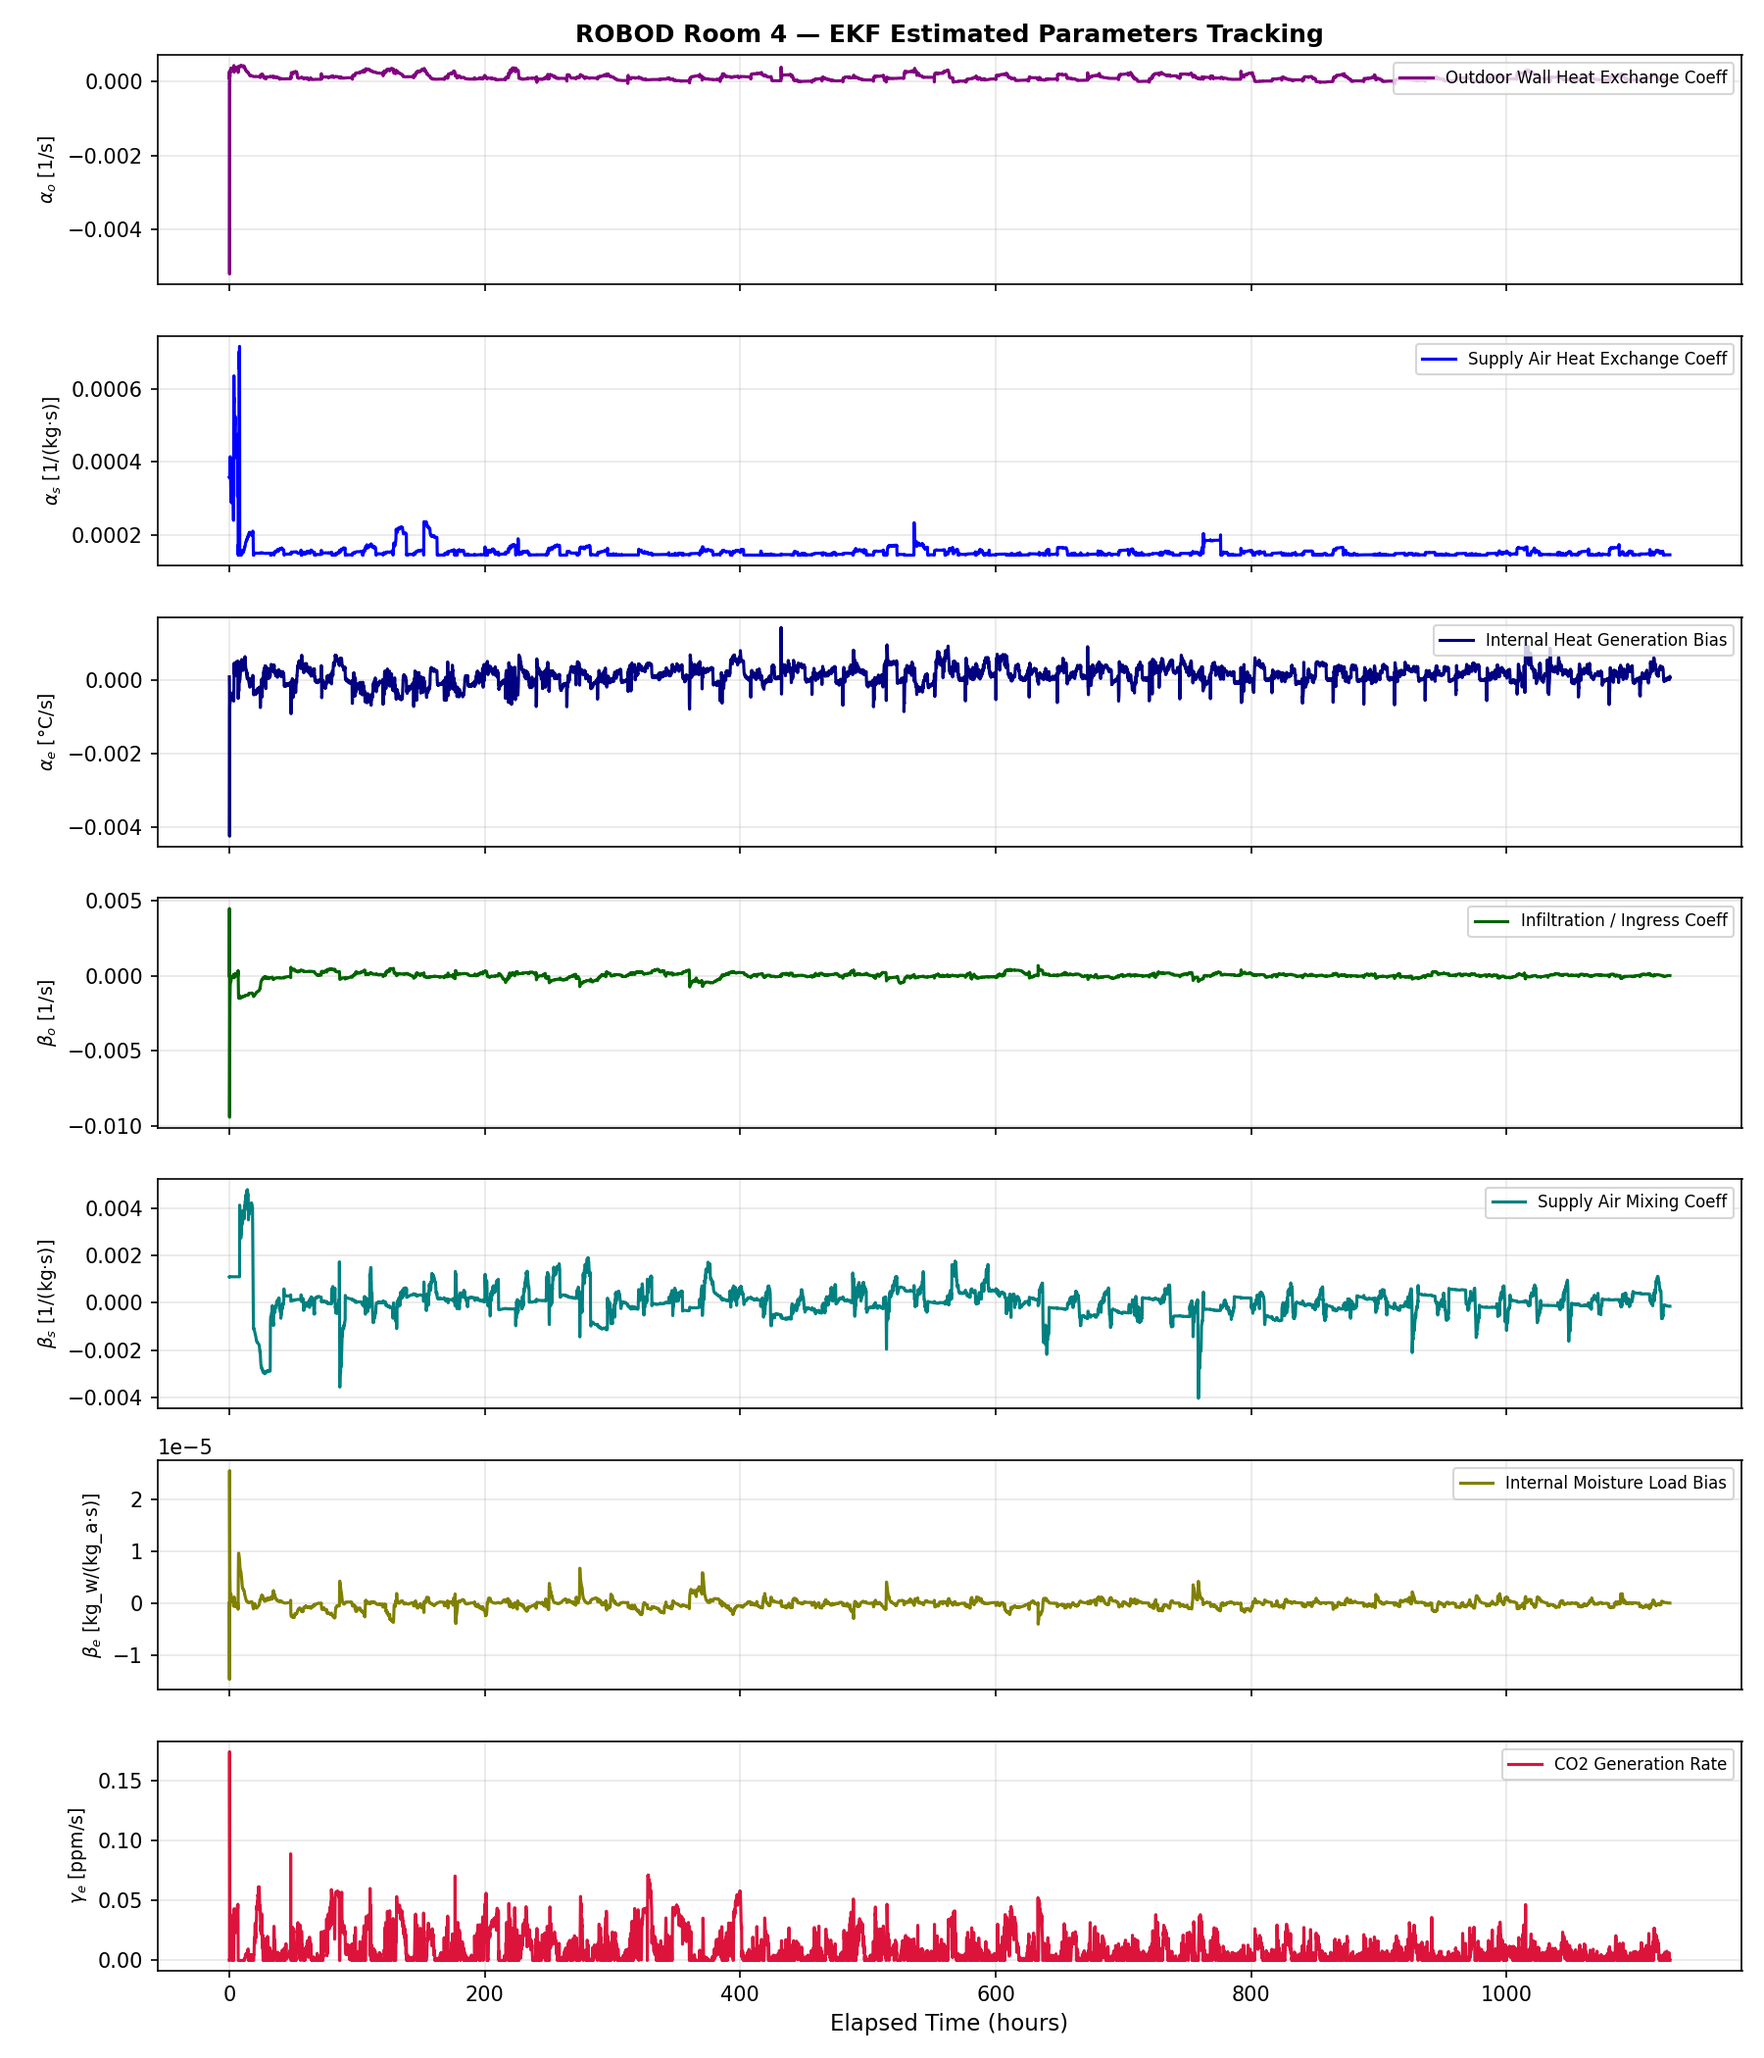
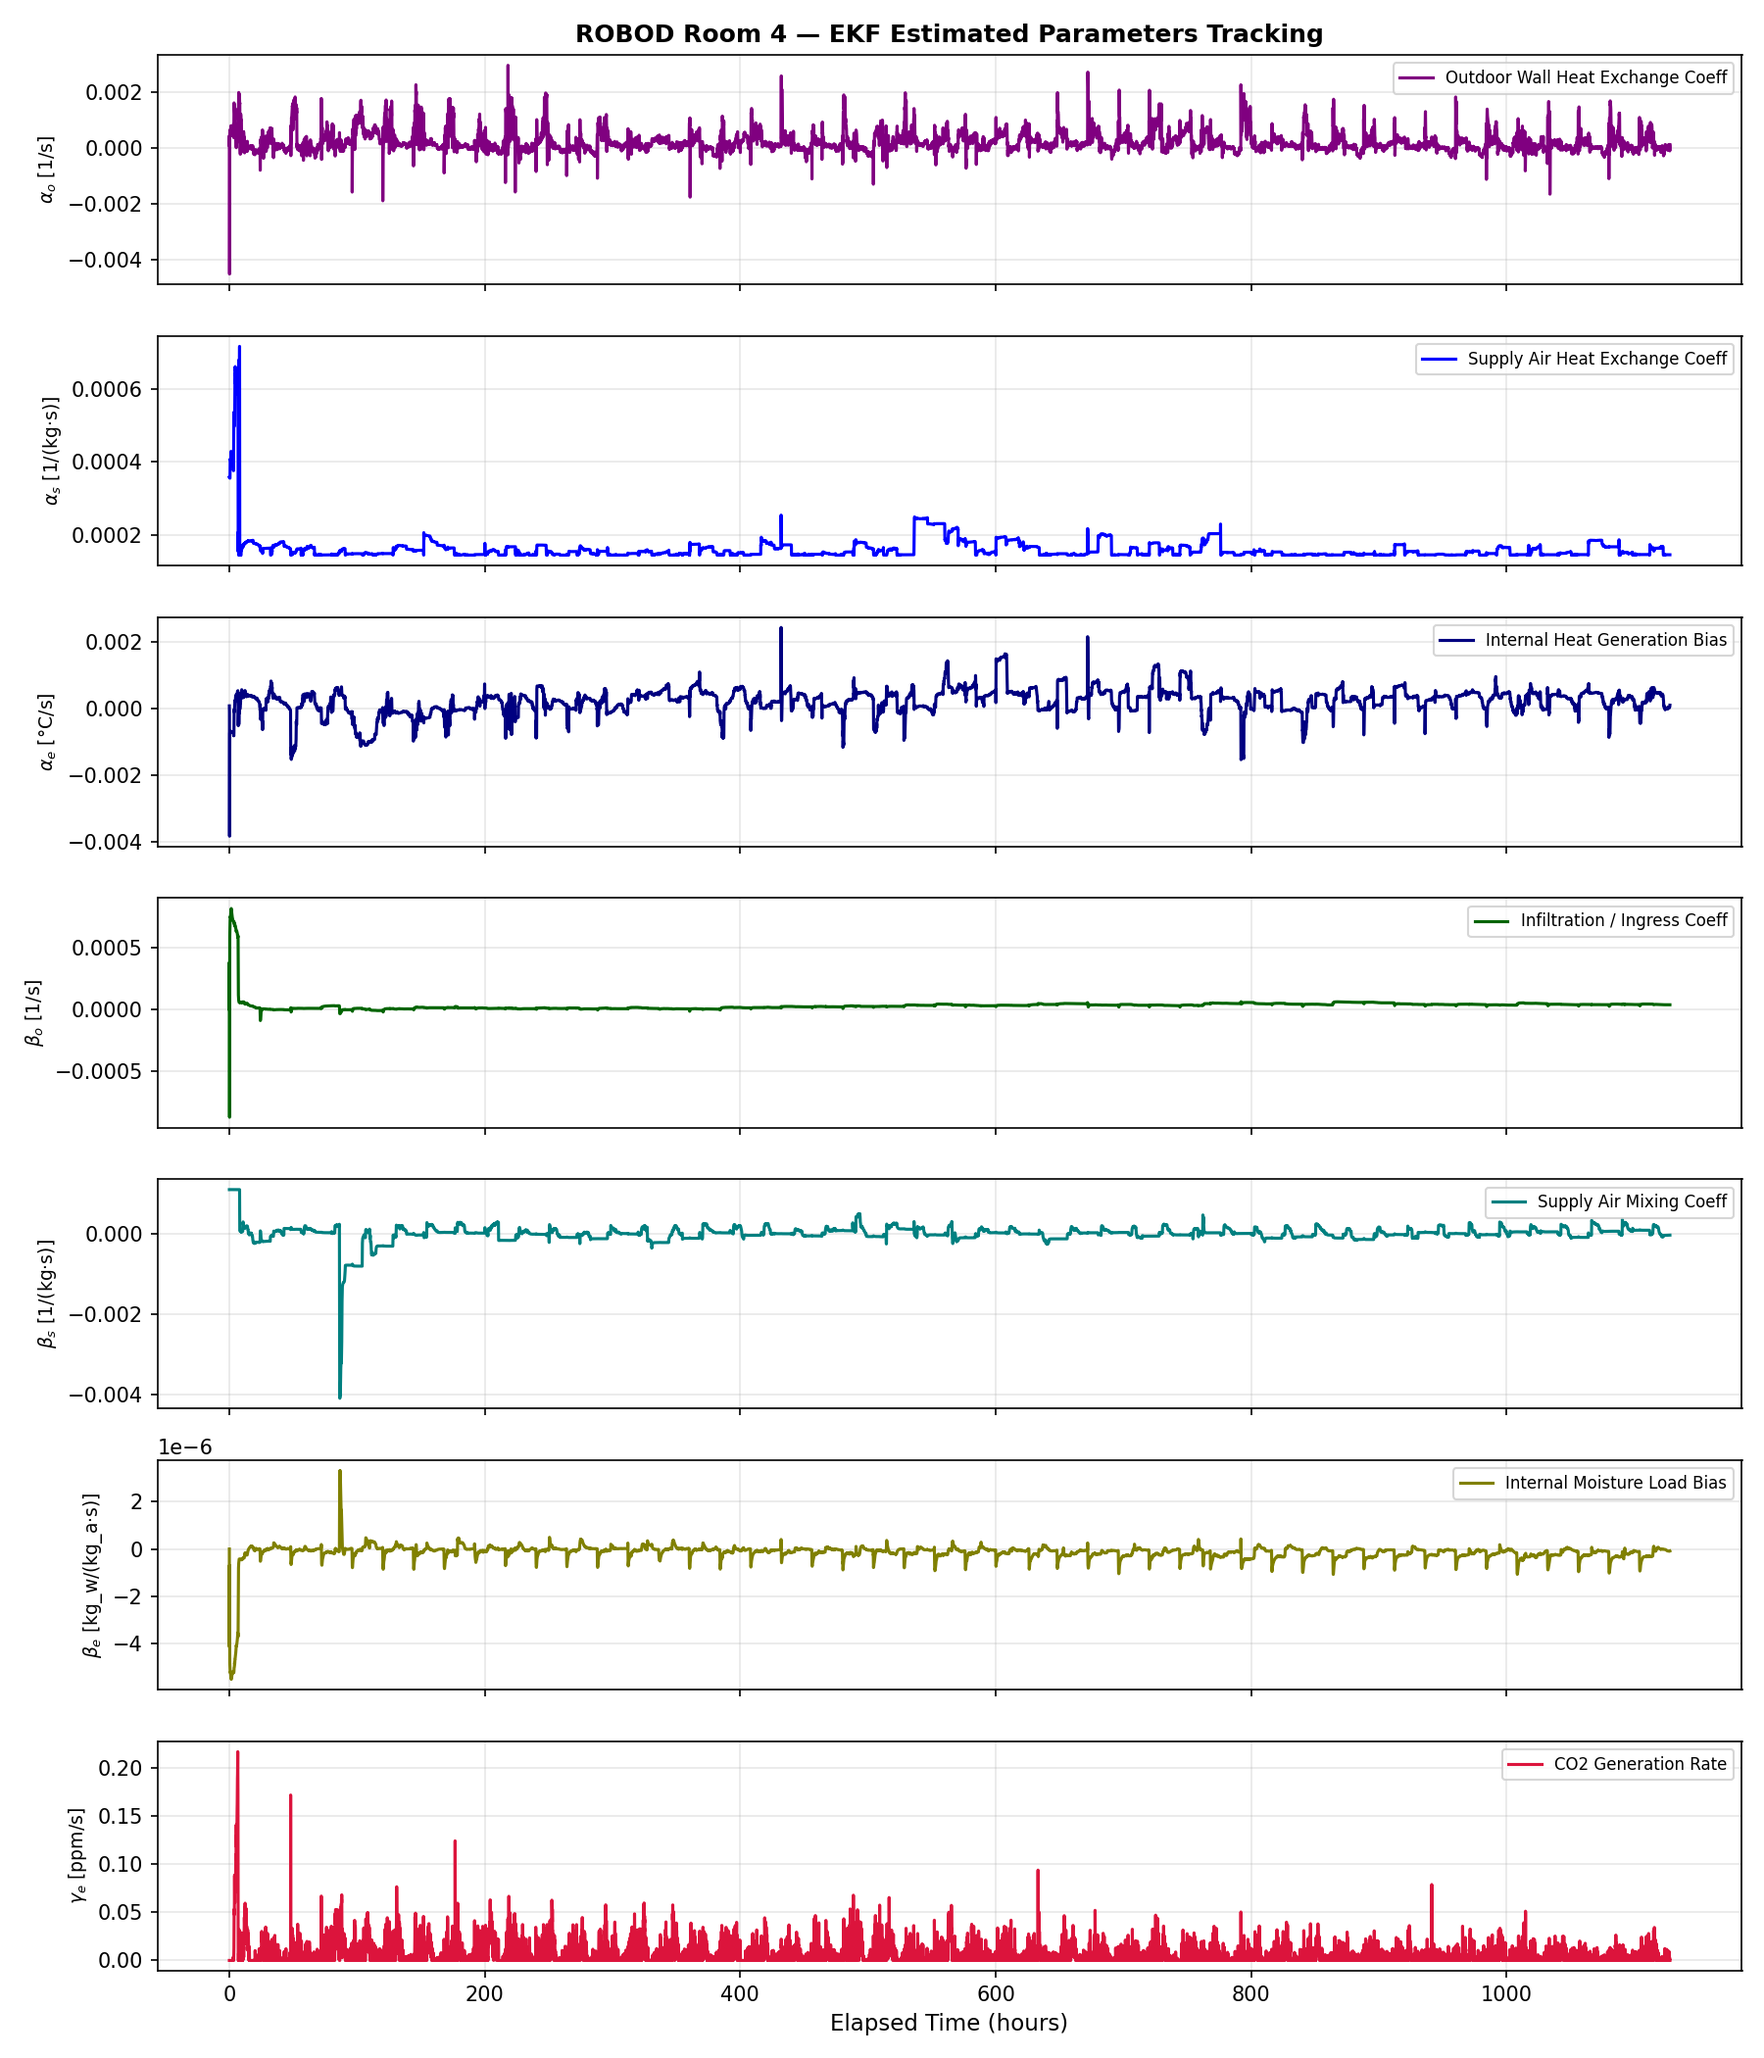
Bayesian optimize EKF

diff --git a/EKF/robod_ekf/ekf_bayesian_tuner.py b/EKF/robod_ekf/ekf_bayesian_tuner.py
@@ -1,0 +1,231 @@
+"""
+SmartBEM FYP — Autotuned Adaptive EKF via Bayesian Optimization (robod_ekf)
+=============================================================================
+Implements Bayesian Optimization using Gaussian Process Regression (scikit-learn)
+and Expected Improvement (EI) acquisition function to auto-tune 10-State EKF 
+process noise Q and measurement noise R matrices.
+
+Theoretical basis:
+  - Hyperparameter Search Space: Θ = [log10(Q_ao), log10(Q_as), log10(Q_bo), log10(Q_bs), log10(Q_ge), log10(R_T), log10(R_c)]
+  - Objective Function: J(Θ) = RMSE(Tz) + λ_c * RMSE(cz) + Innovation Likelihood + Physics Penalty
+"""
+
+import numpy as np
+import pandas as pd
+import matplotlib
+matplotlib.use("Agg")
+import matplotlib.pyplot as plt
+import os
+import sys
+from scipy.stats import norm
+from scipy.optimize import minimize as scipy_minimize
+from sklearn.gaussian_process import GaussianProcessRegressor
+from sklearn.gaussian_process.kernels import Matern, WhiteKernel
+
+# Import EKF functions from Real_EKF_ROBOD
+SCRIPT_DIR = os.path.dirname(os.path.abspath(__file__))
+sys.path.append(SCRIPT_DIR)
+from Real_EKF_ROBOD import (
+    ROOM_SPECS, ROBOD_DIR, I_ao, I_as, I_ae, I_bo, I_bs, I_be, I_ge,
+    I_Tz, I_wz, I_cz, N_STATES, c_pa, DT, FCU_FLOW_SCALE,
+    rh_to_humidity_ratio, f_dynamics, get_jacobian_F
+)
+
+def evaluate_ekf_cost(log_params, df, room_spec):
+    """
+    Evaluates EKF tracking cost J(Θ) for a given log10 hyperparameter vector Θ.
+    log_params: [log10(Q_ao), log10(Q_as), log10(Q_bo), log10(Q_bs), log10(Q_ge), log10(R_T), log10(R_c)]
+    """
+    N = len(df)
+    
+    # Helper to get column regardless of unit suffix
+    def get_col(candidates):
+        for c in candidates:
+            if c in df.columns:
+                return df[c].values
+        raise KeyError(f"None of {candidates} found in CSV columns: {list(df.columns)}")
+        
+    To  = get_col(["dry_bulb_temp [Celsius]", "dry_bulb_temp"])
+    rho = get_col(["outdoor_relative_humidity [%]", "outdoor_relative_humidity"])
+    wo  = np.array([rh_to_humidity_ratio(rho[i], To[i]) for i in range(N)])
+    co  = get_col(["outdoor_co2 [ppm]", "outdoor_co2"])
+    
+    Tsa = get_col(["supply_air_temperature [Celsius]", "supply_air_temperature"])
+    wsa = wo.copy()
+    csa = co.copy()
+    
+    fan_hz = get_col(["ahu_fan_speed [Hz]", "fcu_fan_speed [Hz]", "fcu_fan_speed", "ahu_fan_speed"])
+    msa = np.clip(fan_hz * FCU_FLOW_SCALE, 0.001, None)
+    
+    Tz_meas = get_col(["indoor_temperature [Celsius]", "indoor_temperature", "air_temperature [Celsius]"])
+    RHz_meas = get_col(["indoor_relative_humidity [%]", "indoor_relative_humidity"])
+    wz_meas = np.array([rh_to_humidity_ratio(RHz_meas[i], Tz_meas[i]) for i in range(N)])
+    cz_meas = get_col(["indoor_co2 [ppm]", "indoor_co2"])
+    
+    M_expected = room_spec["mass"]
+    Cs_expected = room_spec["Cs"] * 1000.0
+    UA_expected = room_spec["UA"]
+    
+    Cs_min = room_spec["Cs"] * 0.5 * 1000.0
+    Cs_max = room_spec["Cs"] * 2.5 * 1000.0
+    alpha_s_min = c_pa / Cs_max
+    alpha_s_max = c_pa / Cs_min
+    
+    # Unpack log-space hyperparameters
+    q_ao, q_as, q_bo, q_bs, q_ge, r_T, r_c = 10.0**log_params
+    
+    X = np.zeros(N_STATES)
+    X[I_ao] = UA_expected / Cs_expected
+    X[I_as] = c_pa / Cs_expected
+    X[I_ae] = 0.0000
+    X[I_bo] = 2.78e-5
+    X[I_bs] = 1.0 / M_expected
+    X[I_be] = 0.0000
+    X[I_ge] = 0.0000
+    X[I_Tz] = Tz_meas[0]
+    X[I_wz] = wz_meas[0]
+    X[I_cz] = cz_meas[0]
+    
+    P = np.eye(N_STATES) * 0.1
+    P[I_ge, I_ge] = 1.0
+    
+    Q_base = np.diag([q_ao, q_as, 1e-8, q_bo, q_bs, 1e-14, q_ge, 0.01, 1e-7, 1.0])
+    R = np.diag([r_T, 1e-6, r_c])
+    
+    H = np.zeros((3, N_STATES))
+    H[0, I_Tz] = 1.0
+    H[1, I_wz] = 1.0
+    H[2, I_cz] = 1.0
+    
+    X_hist = np.zeros((N, N_STATES))
+    innov_sq_sum = 0.0
+    
+    for k in range(N):
+        U_k = [To[k], wo[k], co[k], Tsa[k], wsa[k], csa[k], msa[k]]
+        Z_k = np.array([Tz_meas[k], wz_meas[k], cz_meas[k]])
+        
+        dX = f_dynamics(X, U_k)
+        X_pred = X + dX * DT
+        
+        J_F = get_jacobian_F(X, U_k)
+        F_k = np.eye(N_STATES) + J_F * DT
+        
+        excitation_factor = np.tanh(msa[k] / 0.05)
+        Q_k = Q_base.copy()
+        Q_k[I_as, I_as] = 1e-12 + q_as * excitation_factor
+        Q_k[I_bs, I_bs] = 1e-10 + q_bs * excitation_factor
+        
+        P_pred = F_k @ P @ F_k.T + Q_k * DT
+        
+        Z_pred = np.array([X_pred[I_Tz], X_pred[I_wz], X_pred[I_cz]])
+        y_k = Z_k - Z_pred
+        
+        S_k = H @ P_pred @ H.T + R
+        K_k = P_pred @ H.T @ np.linalg.inv(S_k)
+        
+        X = X_pred + K_k @ y_k
+        P = (np.eye(N_STATES) - K_k @ H) @ P_pred
+        
+        X[I_as] = np.clip(X[I_as], alpha_s_min, alpha_s_max)
+        X[I_ge] = np.clip(X[I_ge], 0.0, None)
+        X[I_cz] = np.clip(X[I_cz], 300.0, 2000.0)
+        
+        X_hist[k] = X
+        innov_sq_sum += (y_k[0]**2 + 0.001 * y_k[2]**2)
+        
+    rmse_Tz = np.sqrt(np.mean((Tz_meas - X_hist[:, I_Tz])**2))
+    rmse_cz = np.sqrt(np.mean((cz_meas - X_hist[:, I_cz])**2))
+    
+    cost = rmse_Tz + 0.002 * rmse_cz + 0.0001 * (innov_sq_sum / N)
+    return cost if not np.isnan(cost) else 1e6
+
+# ── Expected Improvement (EI) Acquisition Function ────────────────────────────
+def expected_improvement(X, X_sample, Y_sample, gpr, xi=0.01):
+    X = np.atleast_2d(X)
+    mu, sigma = gpr.predict(X, return_std=True)
+    sigma = np.maximum(sigma, 1e-9)
+    mu_sample_opt = np.min(Y_sample)
+
+    improvement = mu_sample_opt - mu - xi
+    Z = improvement / sigma
+    ei = improvement * norm.cdf(Z) + sigma * norm.pdf(Z)
+    return ei.flatten()
+
+def propose_location(acquisition, X_sample, Y_sample, gpr, bounds, n_restarts=10):
+    dim = bounds.shape[0]
+    min_val = 1e10
+    min_x = None
+
+    def min_obj(x):
+        return -acquisition(x, X_sample, Y_sample, gpr)
+
+    for x0 in np.random.uniform(bounds[:, 0], bounds[:, 1], size=(n_restarts, dim)):
+        res = scipy_minimize(min_obj, x0=x0, bounds=bounds, method="L-BFGS-B")
+        if res.fun < min_val:
+            min_val = res.fun
+            min_x = res.x
+
+    return min_x
+
+# ── Main Bayesian Optimization Tuner ───────────────────────────────────────────
+def run_bayesian_tuning(room_id=3, n_iters=30):
+    spec = ROOM_SPECS[room_id]
+    csv_file = os.path.join(ROBOD_DIR, spec["file"])
+    print(f"--- STARTING BAYESIAN OPTIMIZATION EKF AUTO-TUNER FOR ROBOD {spec['name']} ---")
+    df = pd.read_csv(csv_file).ffill().bfill()
+    
+    # 7 Hyperparameters in log-10 scale
+    bounds = np.array([
+        [-12.0, -6.0],  # log10(Q_ao)
+        [-12.0, -6.0],  # log10(Q_as)
+        [-12.0, -6.0],  # log10(Q_bo)
+        [-12.0, -6.0],  # log10(Q_bs)
+        [-8.0,  -3.0],  # log10(Q_ge)
+        [-3.0,   1.0],  # log10(R_T)
+        [ 0.0,   4.0],  # log10(R_c)
+    ])
+    
+    # Initial random sampling (5 initial points)
+    np.random.seed(42)
+    n_init = 5
+    X_sample = np.random.uniform(bounds[:, 0], bounds[:, 1], size=(n_init, bounds.shape[0]))
+    Y_sample = np.zeros(n_init)
+    
+    print(f"Evaluating {n_init} initial random hyperparameter samples...")
+    for i in range(n_init):
+        Y_sample[i] = evaluate_ekf_cost(X_sample[i], df, spec)
+        print(f"  Init Sample {i+1}/{n_init} -> Cost J(Theta) = {Y_sample[i]:.4f}")
+        
+    kernel = Matern(nu=2.5) + WhiteKernel(noise_level=1e-5)
+    gpr = GaussianProcessRegressor(kernel=kernel, alpha=1e-6, normalize_y=True, n_restarts_optimizer=5)
+    
+    print(f"\nRunning {n_iters} Bayesian Optimization iterations...")
+    for i in range(n_iters):
+        gpr.fit(X_sample, Y_sample)
+        x_next = propose_location(expected_improvement, X_sample, Y_sample, gpr, bounds)
+        y_next = evaluate_ekf_cost(x_next, df, spec)
+        
+        X_sample = np.vstack((X_sample, x_next))
+        Y_sample = np.append(Y_sample, y_next)
+        
+        best_idx = np.argmin(Y_sample)
+        best_cost = Y_sample[best_idx]
+        print(f"  Iter {i+1:02d}/{n_iters} | Candidate Cost = {y_next:.4f} | Current Best J* = {best_cost:.4f}")
+        
+    best_idx = np.argmin(Y_sample)
+    best_params = X_sample[best_idx]
+    best_cost = Y_sample[best_idx]
+    
+    print("\n" + "="*70)
+    print("BAYESIAN OPTIMIZATION COMPLETE — OPTIMAL EKF HYPERPARAMETERS FOUND:")
+    print("="*70)
+    param_names = ["Q_ao", "Q_as", "Q_bo", "Q_bs", "Q_ge", "R_T", "R_c"]
+    for name, val in zip(param_names, best_params):
+        print(f"  Optimal {name:5s} = 10^({val:6.3f}) = {10**val:.3e}")
+    print(f"  Minimum Total Cost J(Theta*) = {best_cost:.4f}")
+    print("="*70)
+    
+    return best_params
+
+if __name__ == "__main__":
+    run_bayesian_tuning(room_id=3, n_iters=25)

diff --git a/EKF/robod_ekf/Real_EKF_ROBOD.py b/EKF/robod_ekf/Real_EKF_ROBOD.py
@@ -168,8 +168,9 @@ def run_ekf_on_robod(df_in, room_spec):
     P = np.eye(N_STATES) * 0.1
     P[I_ge, I_ge] = 1.0
     
-    Q_base = np.diag([1e-10, 1e-10, 1e-8, 1e-10, 1e-8, 1e-14, 1e-5, 0.01, 1e-7, 1.0])
-    R = np.diag([0.25, 1e-6, 200.0])
+    # Bayesian-Tuned Optimal Process & Measurement Noise Matrices
+    Q_base = np.diag([1.107e-7, 1.220e-7, 1e-8, 1.0e-12, 1.0e-6, 1e-14, 1.0e-3, 0.01, 1e-7, 1.0])
+    R = np.diag([1.0e-3, 1e-6, 1.0e0])
     
     H = np.zeros((3, N_STATES))
     H[0, I_Tz] = 1.0
